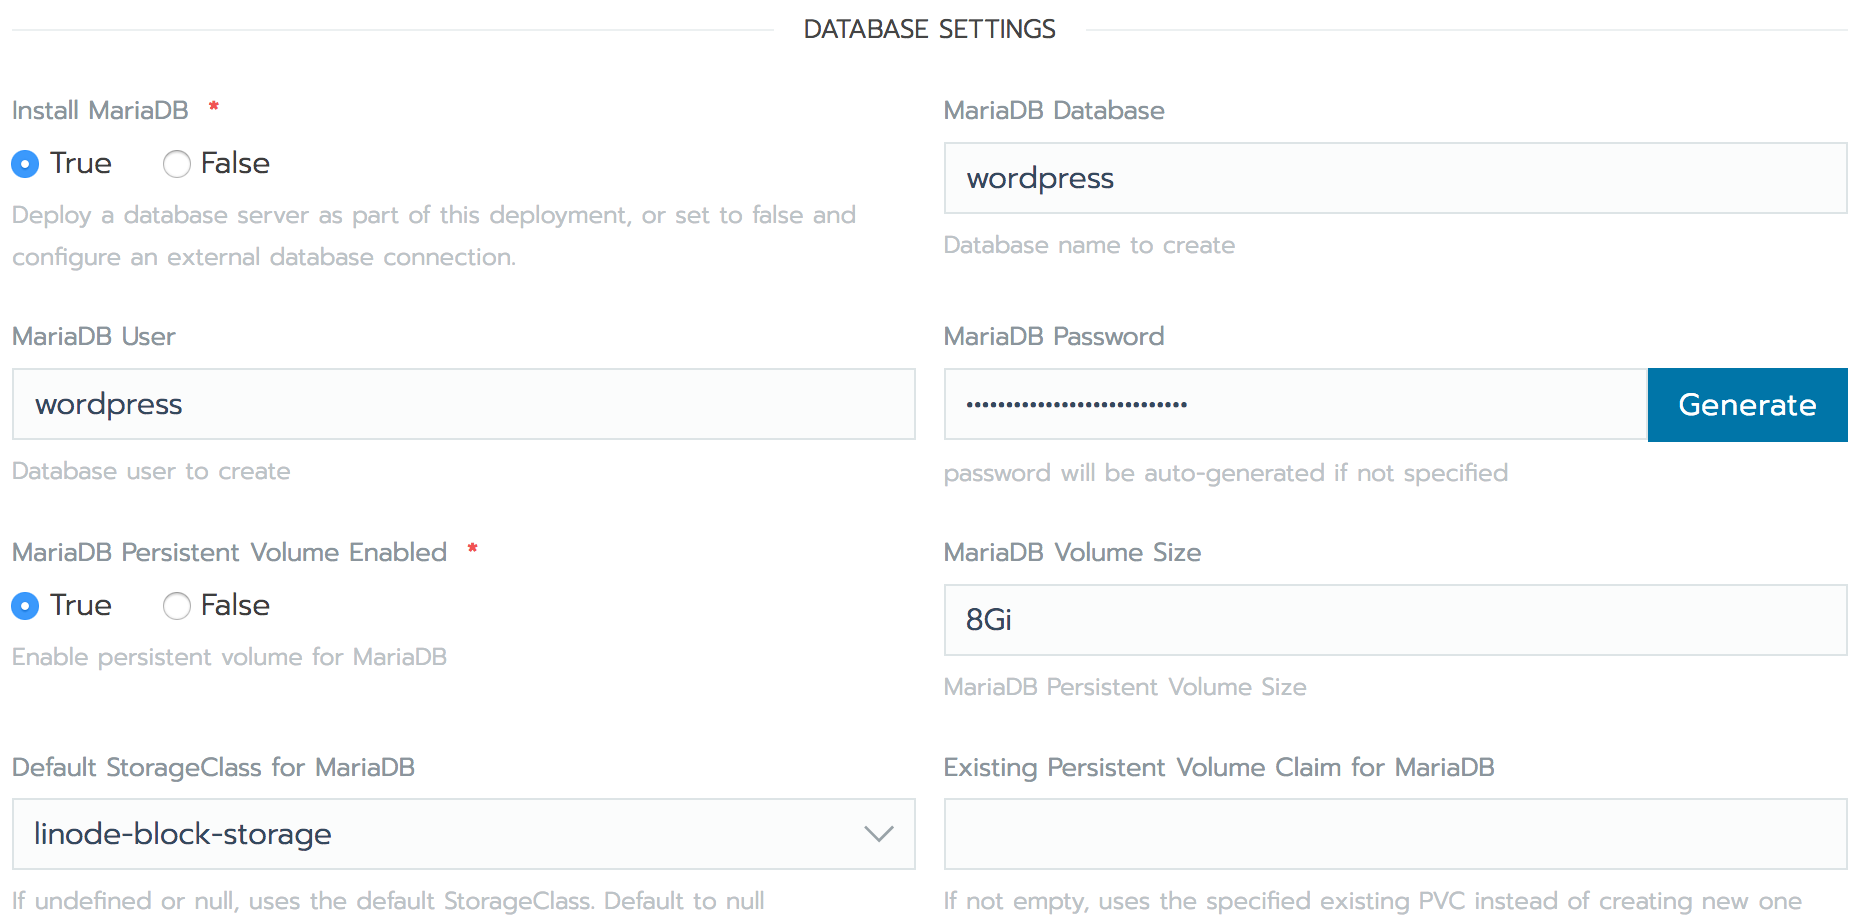
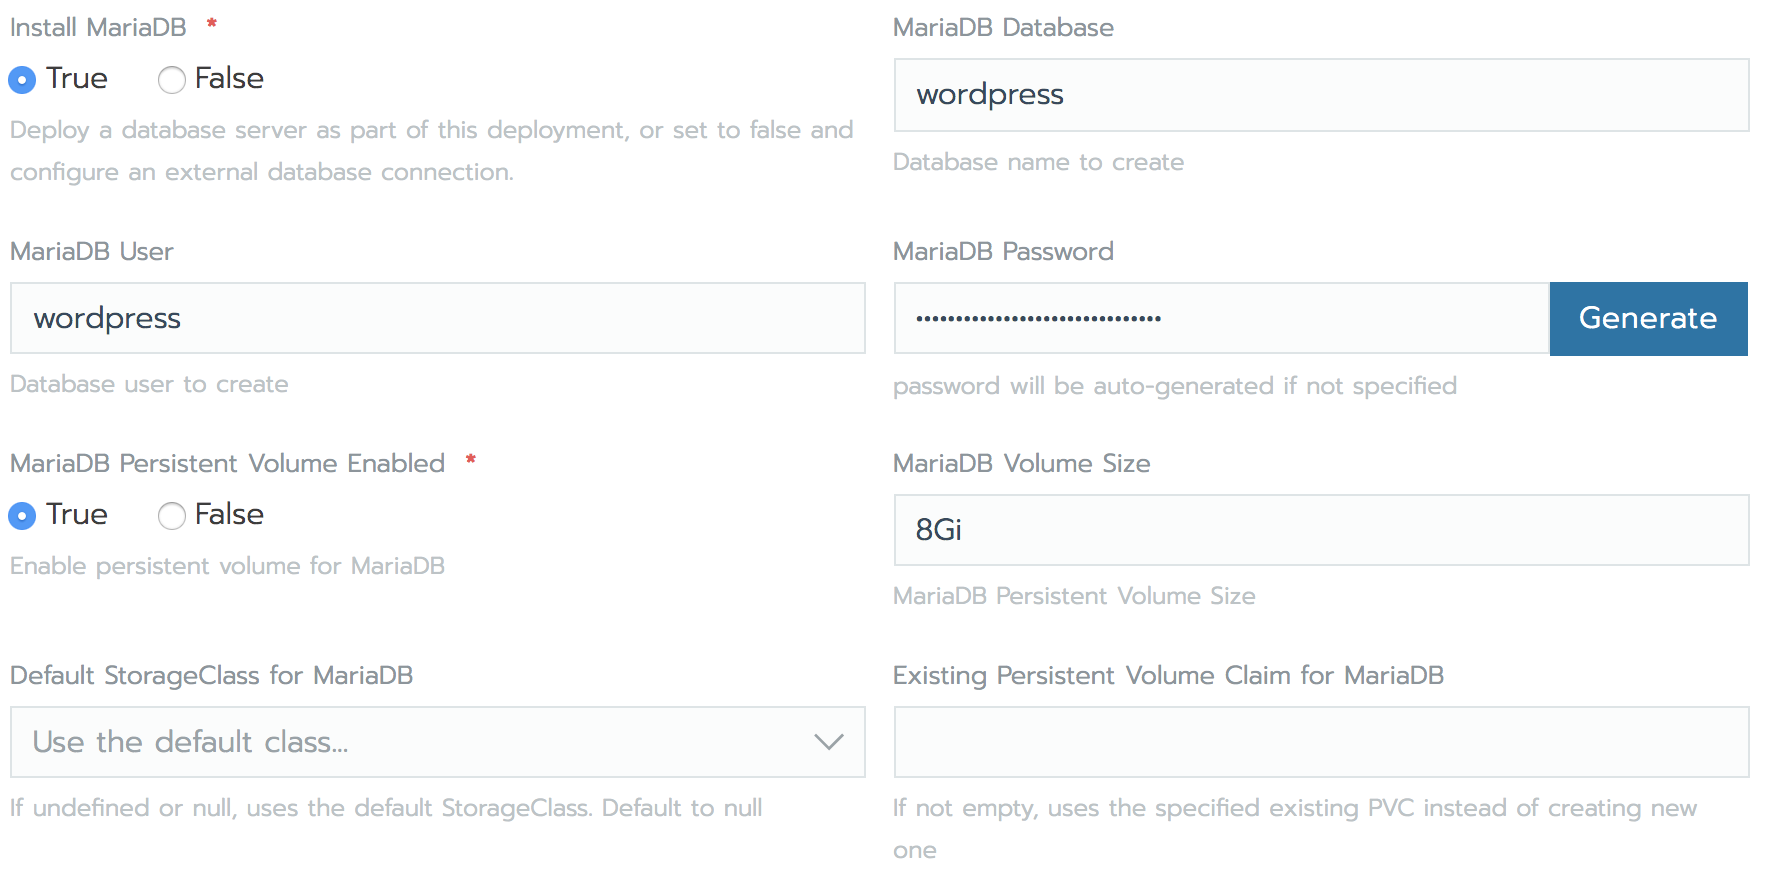
addressing-bugs-and-changes

diff --git a/docs/applications/containers/how-to-deploy-kubernetes-on-linode-with-rancher-2-2/index.md b/docs/applications/containers/how-to-deploy-kubernetes-on-linode-with-rancher-2-2/index.md
@@ -410,7 +410,7 @@ To test out deploying an app on your new cluster, launch the WordPress app from 
 Avoid using symbols in the password you enter, as some symbols can cause syntax errors for this Rancher chart.
 {{< /note >}}
 
-1.  In the **Database Settings** section, enter a password for WordPress' database user. Then set **MariaDB Persistent Volume Enabled** to **True** and select the **linode-block-storage** option from the **Default StorageClass for MariaDB** dropdown menu:
+1.  In the **Database Settings** section, enter a password for WordPress' database user. Then set **MariaDB Persistent Volume Enabled** to **True**, and select the The **Use the default class** option from the **Default StorageClass for MariaDB** dropdown menu:
 
     ![Rancher WordPress setup form - Database Settings](wordpress-app-form-database-settings.png "Rancher WordPress setup form - Database Settings")
 
@@ -445,6 +445,14 @@ The default value for the **MariaDB Volume Size** field is 8GiB, but the minimum
     ![Rancher app detail view - NodeBalancer HTTP endpoint highlighted](wordpress-app-http-nodebalancer-endpoint-highlighted.png "Rancher app detail view - NodeBalancer HTTP endpoint highlighted")
 
     Your WordPress site should open in a new browser tab.
+
+{{< note >}}
+This feature is not currently fully supported for our Toronto data center. To use the provided link, you just need to change "toronto1" in the provided URLs to "tor1". A full working URL will appear as follows:
+
+`http://nb-192-0-2-0.tor1.nodebalancer.linode.com`
+
+{{< /note >}}
+
 
 1.  Visit the wp-login.php page on your site (e.g. at `http://your-nodebalancer-name.newark.nodebalancer.linode.com/wp-login.php`). You should be able to login with the WordPress admin username and password you specified earlier in the app's form.
 
@@ -526,6 +534,7 @@ Rancher also provides an easy way to scale your app's deployments:
 
     ![Rancher deployed apps list - WordPress app completed provisioning](default-project-app-view-wordpress-provisioned-link-highlighted.png "Rancher deployed apps list - WordPress app completed provisioning")
 
+
 1.  In the **Workloads** section, click on the **wordpress-wordpress** link in the **Name** column for that deployment:
 
     ![Rancher WordPress workloads - deployment name highlighted](wordpress-app-wordpress-workload-link-highlighted.png "Rancher WordPress workloads - deployment name highlighted")
@@ -535,6 +544,9 @@ Rancher also provides an easy way to scale your app's deployments:
     ![Rancher WordPress deployment detail view - config scale highlighted](wordpress-workload-config-scale-highlighted.png "Rancher WordPress deployment detail view - config scale highlighted")
 
 1.  A second pod will appear in the **Pods** section on this page, and there will be an **Updating** label at the top of the page. You may see a series of warning messages about the new pod not being available. Eventually, the new pod will be labelled as **Running**.
+
+
+{{< note >}} Although rancher does support the ability to interact directly with individual storage volumes without a running application,this feature is not available at this time. The scaling method described in this section of the guide will apply complete replication of your application and volumes. {{< /note >}}
 
 ## Set Up GitHub Authentication
 
